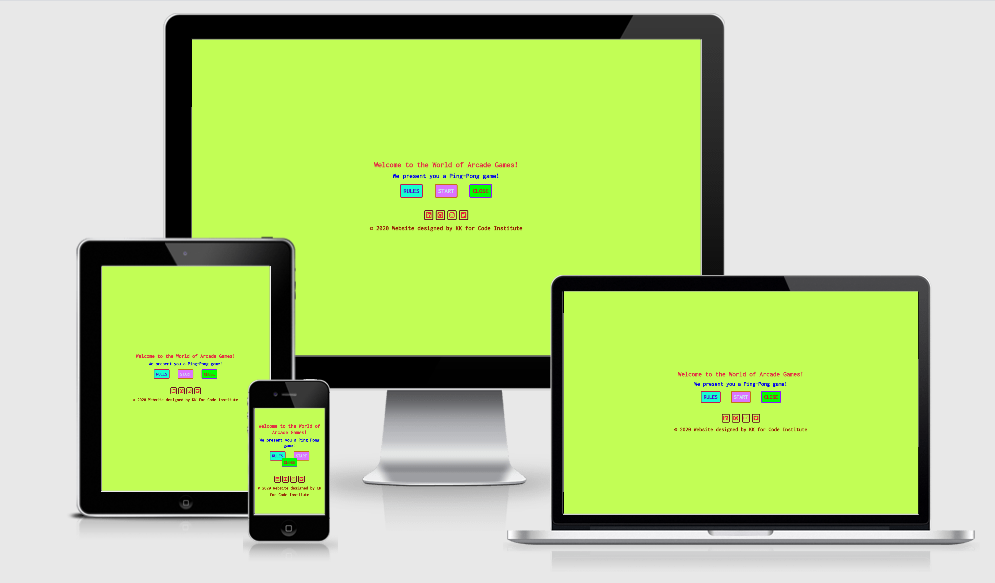
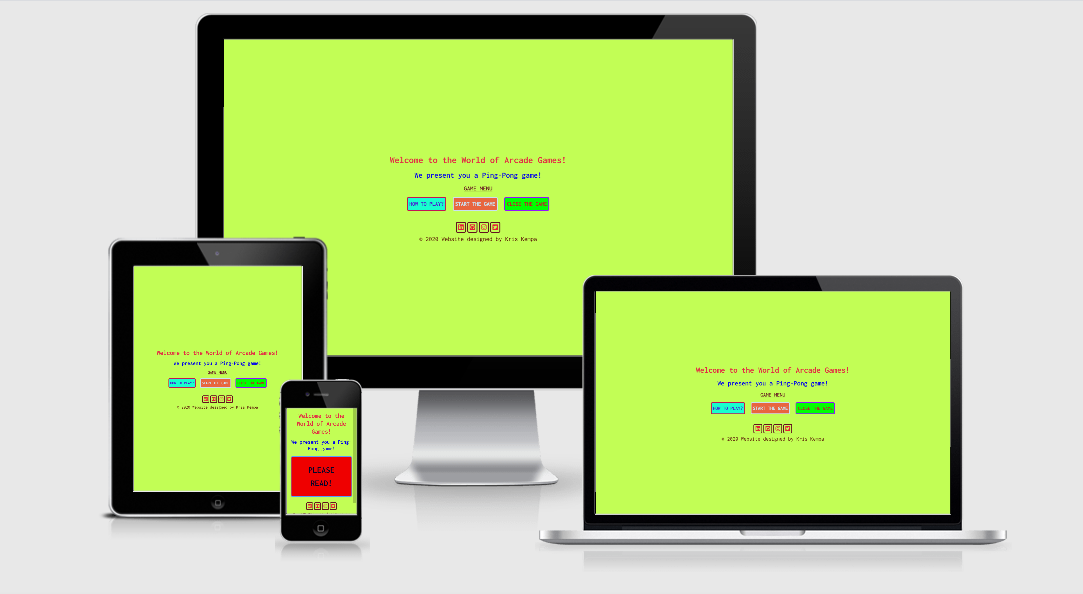
Replacing responsive image in wireframes folder

Changed region(s): [[0.0623, 0.0, 0.997, 0.9571], [0.3427, 0.247, 0.5296, 0.4322], [0.6543, 0.6175, 0.8101, 0.741]]

diff --git a/TESTING.md b/TESTING.md
@@ -31,15 +31,15 @@ only on small devices and is hidden if the screen min-width reaches 768px and mo
 
     - the user can smoothly navigate through website and find what is looking for;
     - the user will not feel overwhelmed with a volume of the information as it was the designer's 
-    intention to keep the text content to minimum
+    intention to keep the text content to minimum.
 
 * As a new user, I am hoping to enjoy the game
     - the simplicity of the game will be its biggest value as there is no complicated set of game rules which 
-    could make the player confused
+    could make the player confused.
 
 * As a new user, I want to connect with the website host using the available social-media links;
     - the available social-media links are active and once an icon is clicked/tapped it will take the user 
-    to the external websites where the information about the website's host can be found
+    to the external websites where the information about the website's host can be found.
 
 #### Testing Stories 
 
@@ -53,8 +53,8 @@ re-start the game anytime they want and the game result will reset too. I decide
 ### Features testing
 
 When the user visits the page for the first time she/he will be presented with a vivid background color which attracts user's attention
-but it is not aggressive. The users will notice a limited text content was embedded which makes the website's experience less overwhelming
-which can be 
+but it is not aggressive. The users will notice a limited text content was embedded which makes the general experience less overwhelming
+and more user-friendly. 
 
 #### Elements tested:
 
@@ -77,7 +77,7 @@ The button is not active on the intro page and can be used once the user moves t
     * the **HOW TO PLAY?**, **START THE GAME** and **CLOSE THE GAME** buttons can be seen by the user only if bigger screen devices are used.
     The user is unable to see the buttons if using a small device as their display is set to **none**.
 
-    * the user can refresh the game by reloading the page again. 
+    * the user can refresh the game by reloading the page. 
 
 * **Playfield** - the user is able to move the paddle up and down to hit the ball and score the point. The user notices the speed of the ball increases
 with the number of the hits. The user can see the score changes once the point is earned. 

diff --git a/README.md b/README.md
@@ -1,4 +1,4 @@
-<img src="wireframes/readme-image"/>alt="responsive">
+<img src="wireframes/readme-image/responsive.png" alt="responsive">
 
 **Ping - Pong** also known as **Whiff-Whaff** is a table tennis game where two or four players hit a lightweight ball back an forth across a table divided with a net. 
 Players use small rackets and must allow a ball played toward them to bounce one time on their side of the table. They must hit it back to the opposite side. 
@@ -74,7 +74,7 @@ once the user enters the playfield using **START THE GAME** button.
     min-width of 319.98px width and max-width of 767.98px width. The **PLEASE READ!** button displays only on small screens 
     and its display is set to **none** if the minimum width of 768px is reached. Media queries were used to target these buttons. 
 
-    - the game can be refreshed using reloading the page again.
+    - the game can be refreshed by reloading the website.
 
 **4.** The **canvas** element has been used to build the game board and to render 2D shapes. The game board features the following elements:
 
